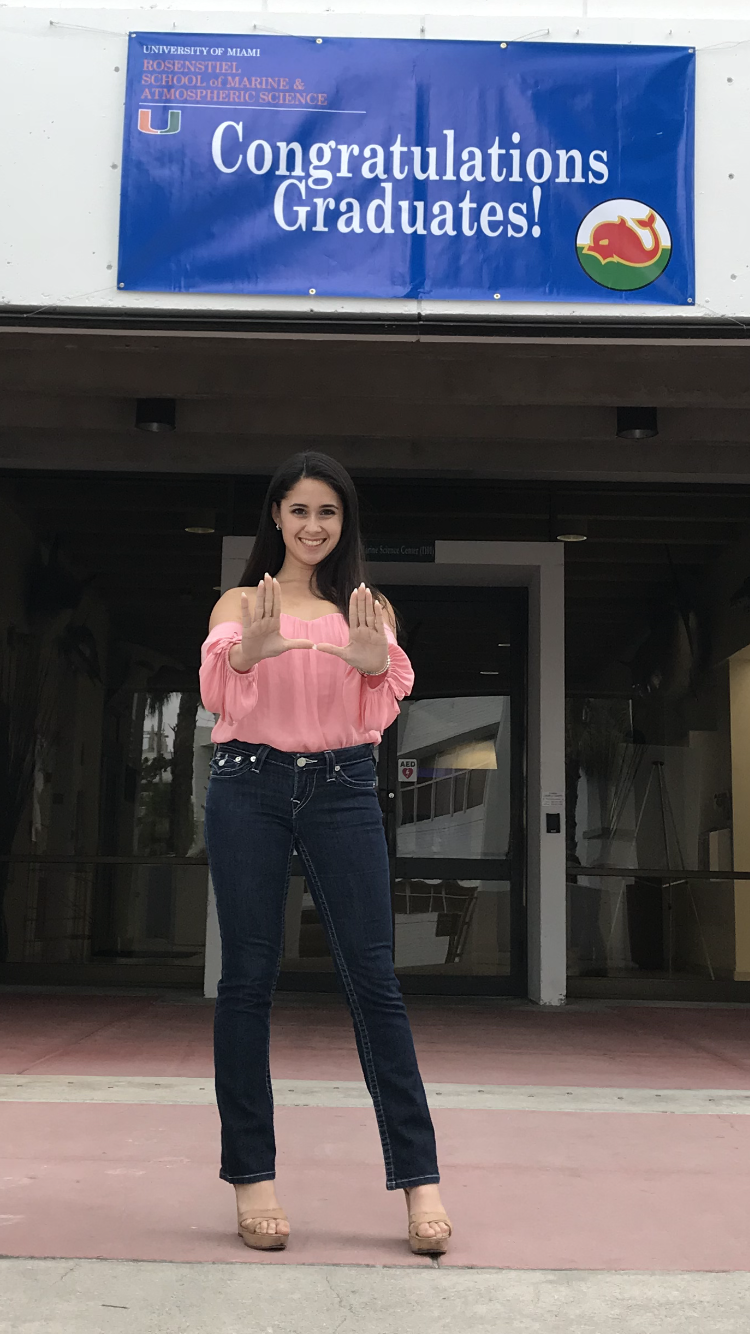
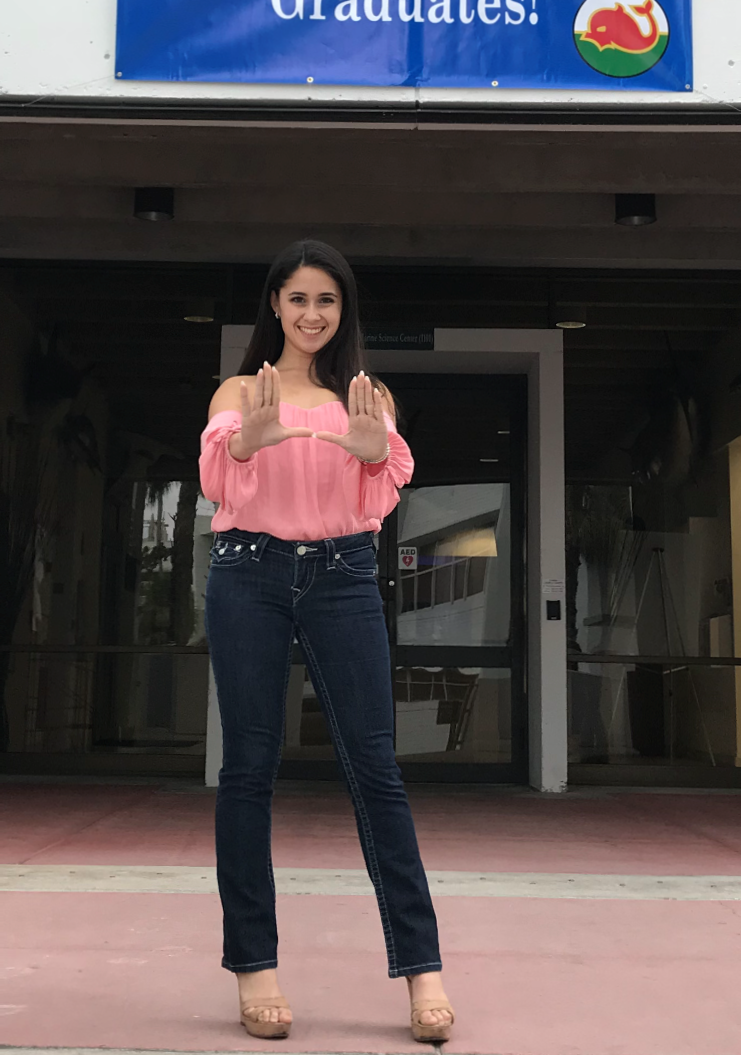
resize images

diff --git a/index.html b/index.html
@@ -1,6 +1,6 @@
 <!DOCTYPE html>
 <html>
-<title>W3.CSS Template</title>
+<title>Restoration</title>
 <meta charset="UTF-8">
 <meta name="viewport" content="width=device-width, initial-scale=1">
 <link rel="stylesheet" href="https://www.w3schools.com/w3css/4/w3.css">
